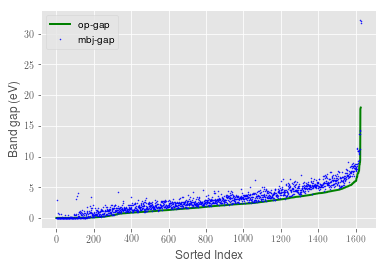
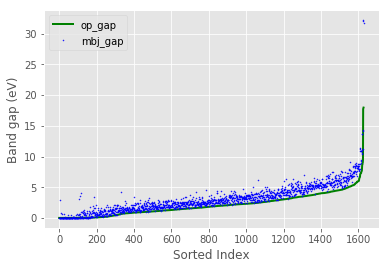
Final changes

diff --git a/_episodes/13-looping-data-sets.md b/_episodes/13-looping-data-sets.md
@@ -21,30 +21,47 @@ keypoints:
 
 ~~~
 import pandas
-for filename in ['data/gapminder_gdp_africa.csv', 'data/gapminder_gdp_asia.csv']:
-    data = pandas.read_csv(filename, index_col='country')
+
+for filename in ['data/jarvis_all.csv', 'data/jarvis_subset.csv']:
+    data = pandas.read_csv(filename, index_col='formula')
     print(filename, data.min())
 ~~~
 {: .python}
 ~~~
-data/gapminder_gdp_africa.csv gdpPercap_1952    298.846212
-gdpPercap_1957    335.997115
-gdpPercap_1962    355.203227
-gdpPercap_1967    412.977514
-⋮ ⋮ ⋮
-gdpPercap_1997    312.188423
-gdpPercap_2002    241.165877
-gdpPercap_2007    277.551859
-dtype: float64
-data/gapminder_gdp_asia.csv gdpPercap_1952    331
-gdpPercap_1957    350
-gdpPercap_1962    388
-gdpPercap_1967    349
-⋮ ⋮ ⋮
-gdpPercap_1997    415
-gdpPercap_2002    611
-gdpPercap_2007    944
-dtype: float64
+data/jarvis_all.csv epsx             1.0681
+epsy             1.0681
+epsz             1.0681
+fin_en         -319.593
+form_enp         -4.135
+gv                -9.62
+icsd             100028
+kp_leng              40
+kv               -0.822
+mbj_gap          0.0002
+mepsx          -426.369
+mepsy          -425.156
+mepsz            1.0578
+mpid           mp-10010
+op_gap           0.0001
+jid         JVASP-10010
+dtype: object
+data/jarvis_subset.csv epsx             4.6738
+epsy              4.746
+epsz             4.7722
+fin_en         -103.757
+form_enp         -2.086
+gv                5.947
+icsd              27393
+kp_leng              50
+kv               16.378
+mbj_gap          0.6495
+mepsx            3.6685
+mepsy            3.7637
+mepsz            3.7977
+mpid             mp-158
+op_gap           0.0221
+jid         JVASP-11997
+dtype: object
 ~~~
 {: .output}
 
@@ -56,7 +73,7 @@ dtype: float64
     *   `?` meaning "match exactly one character"
 *   Python contains the `glob` library to provide pattern matching functionality
 *   The `glob` library contains a function also called `glob` to match file patterns
-*   E.g., `glob.glob('*.txt')` matches all files in the current directory 
+*   E.g., `glob.glob('*.txt')` matches all files in the current directory
     whose names end with `.txt`.
 *   Result is a (possibly empty) list of character strings.
 
@@ -66,9 +83,7 @@ print('all csv files in data directory:', glob.glob('data/*.csv'))
 ~~~
 {: .python}
 ~~~
-all csv files in data directory: ['data/gapminder_all.csv', 'data/gapminder_gdp_africa.csv', \
-'data/gapminder_gdp_americas.csv', 'data/gapminder_gdp_asia.csv', 'data/gapminder_gdp_europe.csv', \
-'data/gapminder_gdp_oceania.csv']
+all csv files in data directory: ['data/jarvis_all.csv', 'data/jarvis_subset.csv']
 ~~~
 {: .output}
 
@@ -87,18 +102,14 @@ all PDB files: []
     so that simple patterns will find the right data.
 
 ~~~
-for filename in glob.glob('data/gapminder_*.csv'):
+for filename in glob.glob('data/jarvis_*.csv'):
     data = pandas.read_csv(filename)
-    print(filename, data['gdpPercap_1952'].min())
+    print(filename, data['gv'].min())
 ~~~
 {: .python}
 ~~~
-data/gapminder_all.csv 298.8462121
-data/gapminder_gdp_africa.csv 298.8462121
-data/gapminder_gdp_americas.csv 1397.717137
-data/gapminder_gdp_asia.csv 331.0
-data/gapminder_gdp_europe.csv 973.5331948
-data/gapminder_gdp_oceania.csv 10039.59564
+data/jarvis_all.csv -9.62
+data/jarvis_subset.csv 5.947
 ~~~
 {: .output}
 
@@ -137,7 +148,7 @@ data/gapminder_gdp_oceania.csv 10039.59564
 > print('smallest file has', fewest, 'records')
 > ~~~
 > {: .python}
-> Notice that the shape method returns a tuple with 
+> Notice that the shape method returns a tuple with
 > the number of rows and columns of the data frame.
 >
 > > ## Solution
@@ -149,29 +160,6 @@ data/gapminder_gdp_oceania.csv 10039.59564
 > >     dataframe = pandas.read_csv(filename)
 > >     fewest = min(fewest, dataframe.shape[0])
 > > print('smallest file has', fewest, 'records')
-> > ~~~
-> > {: .python}
-> {: .solution}
-{: .challenge}
-
-> ## Comparing Data
->
-> Write a program that reads in the regional data sets
-> and plots the average GDP per capita for each region over time
-> in a single chart.
-> > ## Solution
-> > ~~~
-> > import glob
-> > import pandas 
-> > import matplotlib.pyplot as plt
-> > fig, ax = plt.subplots(1,1)
-> > for filename in glob.glob('data/gapminder_gdp*.csv'):
-> >     dataframe = pandas.read_csv(filename)
-> >     # extract region from the filename, expected to be in the format 'data/gapminder_gdp_<region>.csv'
-> >     region = filename.rpartition('_')[2][:-4] 
-> >     dataframe.mean().plot(ax=ax, label=region)
-> > plt.legend()
-> > plt.show()
 > > ~~~
 > > {: .python}
 > {: .solution}

diff --git a/_episodes/09-plotting.md b/_episodes/09-plotting.md
@@ -23,6 +23,9 @@ keypoints:
 ~~~
 %matplotlib inline
 import matplotlib.pyplot as plt
+
+rc('text', usetex=False)
+plt.style.use('ggplot')
 ~~~
 {: .language-python}
 
@@ -46,11 +49,8 @@ plt.ylabel('Position (km)')
 *   Before plotting, we convert the column headings from a `string` to `integer` data type, since they represent numerical values
 
 ~~~
-%matplotlib inline
-import matplotlib.pyplot as plt
 import pandas
 
-plt.style.use('ggplot')
 data_all = pandas.read_csv('data/jarvis_all.csv', index_col='formula')
 eps = data_all.loc['Si', 'epsx':'epsz']
 eps.plot(kind="bar");
@@ -90,8 +90,8 @@ plt.plot(form_emp.values, 'g--')
 ~~~
 data_sort = data_all.sort_values('op_gap')
 
-plt.plot(data_sort.op_gap.values, 'g-', lw=2, label=r'op-gap')
-plt.plot(data_sort.mbj_gap.values, 'b.', ms=1, label=r'mbj-gap')
+plt.plot(data_sort.op_gap.values, 'g-', lw=2, label=r'op_gap')
+plt.plot(data_sort.mbj_gap.values, 'b.', ms=1, label=r'mbj_gap')
 plt.legend(loc='upper left')
 plt.xlabel('Sorted Index')
 plt.ylabel('Band gap (eV)');

diff --git a/_episodes/08-data-frames.md b/_episodes/08-data-frames.md
@@ -268,8 +268,8 @@ determine materials that are optically isotropic.
 ~~~
 import numpy
 
-dielectric_sq = data_all[['epsx', 'epsy', 'epsz', 'epsx']].apply(numpy.sqrt)
-print(dielectric_sq.iloc[:5])
+dielectric_rt = data_all[['epsx', 'epsy', 'epsz', 'epsx']].apply(numpy.sqrt)
+print(dielectric_rt.iloc[:5])
 ~~~
 {: .language-python}
 ~~~
@@ -284,7 +284,7 @@ InBr3    2.161897  2.178532  2.184537  2.161897
 {: .output}
 Two of the entries for Silicon have low birefringence.
 ~~~
-birefringence = dielectric_sq.diff(axis=1).apply('abs').aggregate('max', axis=1)
+birefringence = dielectric_rt.diff(axis=1).apply('abs').aggregate('max', axis=1)
 print(birefringence.iloc[10:20])
 print()
 print(birefringence.loc["Si"])

diff --git a/_episodes/07-reading-tabular.md b/_episodes/07-reading-tabular.md
@@ -108,7 +108,7 @@ To get more details about each material in the dataframe, go to the
 [JARVIS website](https://www.ctcms.nist.gov/~knc6/JARVIS.html) using
 the `jid` value. For example, to get details about `As`
 (`JVASP-11997`), go to
-[https://www.ctcms.nist.gov/~knc6/jsmol/JVASP-11997]().
+[https://www.ctcms.nist.gov/~knc6/jsmol/JVASP-11997](https://www.ctcms.nist.gov/~knc6/jsmol/JVASP-11997).
 
 The page shows post-processed results from VASP calculations.
 
